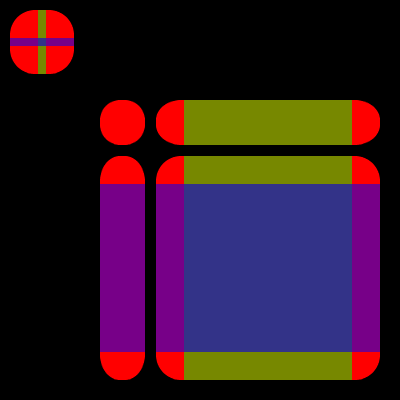
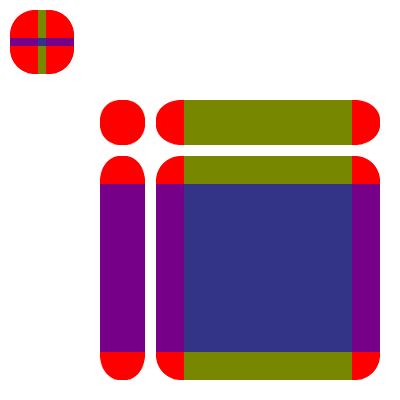
reimage ninepatch-stretch with white bg (for easier printing)

diff --git a/samplecode/SampleNinePatch.cpp b/samplecode/SampleNinePatch.cpp
@@ -6,12 +6,9 @@
  * found in the LICENSE file.
  */
 #include "SampleCode.h"
-#include "SkView.h"
 #include "SkCanvas.h"
-#include "SkImageDecoder.h"
 #include "SkNinePatch.h"
 #include "SkPaint.h"
-#include "SkUnPreMultiply.h"
 #include "SkGpuDevice.h"
 
 static void make_bitmap(SkBitmap* bitmap, GrContext* ctx, SkIRect* center) {
@@ -43,16 +40,6 @@ static void make_bitmap(SkBitmap* bitmap, GrContext* ctx, SkIRect* center) {
     SkPaint paint;
     paint.setAntiAlias(true);
 
-#if 0
-    r.inset(strokeWidth/2, strokeWidth/2);
-
-    paint.setColor(SK_ColorBLUE);
-    canvas.drawRoundRect(r, radius, radius, paint);
-    paint.setColor(SK_ColorRED);
-    paint.setStyle(SkPaint::kStroke_Style);
-    paint.setStrokeWidth(strokeWidth);
-    canvas.drawRoundRect(r, radius, radius, paint);
-#else
     paint.setColor(0xFFFF0000);
     canvas.drawRoundRect(r, radius, radius, paint);
     r.setXYWH(SkIntToScalar(kFixed), 0, SkIntToScalar(kStretchy), SkIntToScalar(kSize));
@@ -61,7 +48,6 @@ static void make_bitmap(SkBitmap* bitmap, GrContext* ctx, SkIRect* center) {
     r.setXYWH(0, SkIntToScalar(kFixed), SkIntToScalar(kSize), SkIntToScalar(kStretchy));
     paint.setColor(0x880000FF);
     canvas.drawRect(r, paint);
-#endif
 }
 
 

diff --git a/samplecode/SampleBitmapRect.cpp b/samplecode/SampleBitmapRect.cpp
@@ -66,7 +66,7 @@ protected:
     }
     
     virtual void onDrawContent(SkCanvas* canvas) {
-        GrContext* ctx = NULL;//SampleCode::GetGr();
+        GrContext* ctx = SampleCode::GetGr();
 
         const SkIRect src[] = {
             { 0, 0, 32, 32 },

diff --git a/gm/ninepatchstretch.cpp b/gm/ninepatchstretch.cpp
@@ -75,7 +75,7 @@ protected:
     }
     
     virtual void onDraw(SkCanvas* canvas) {
-        canvas->drawColor(SK_ColorBLACK);
+        canvas->drawColor(SK_ColorWHITE);
 
         SkBitmap bm;
         SkIRect center;
